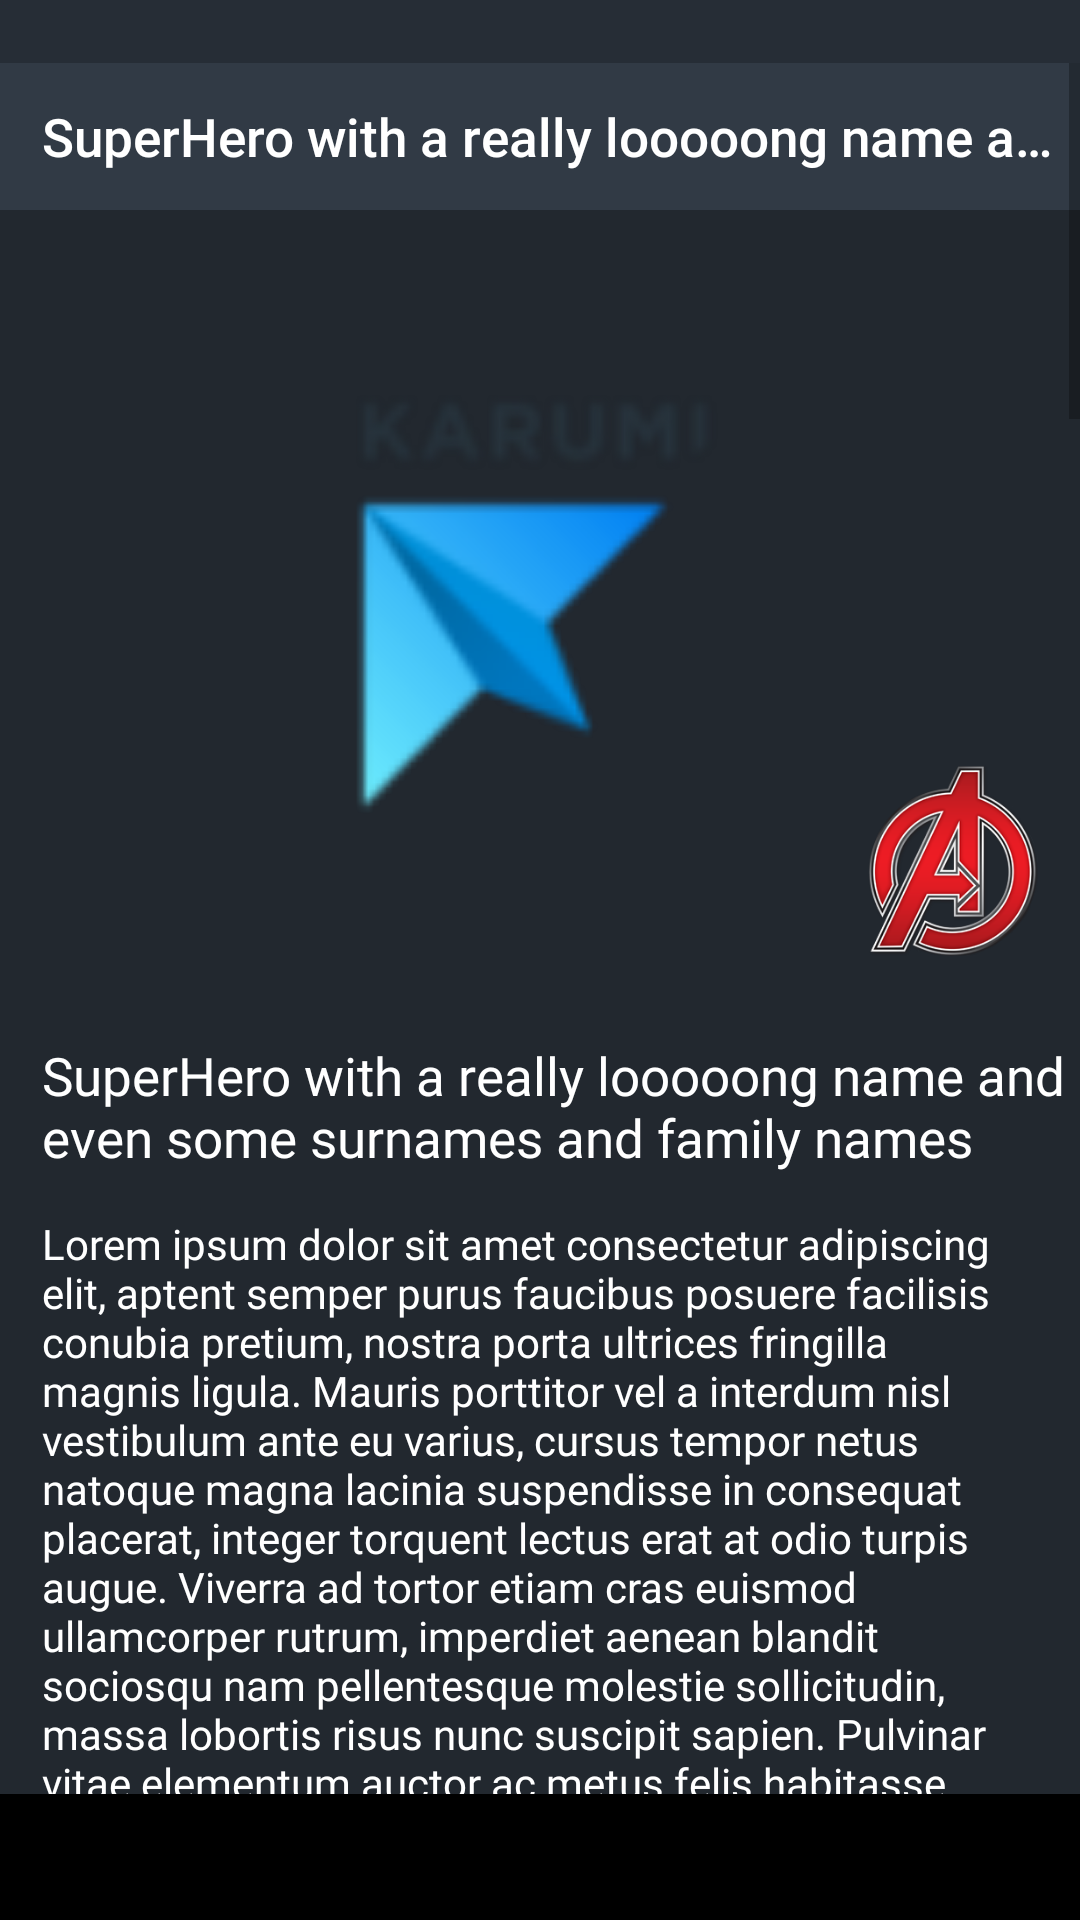
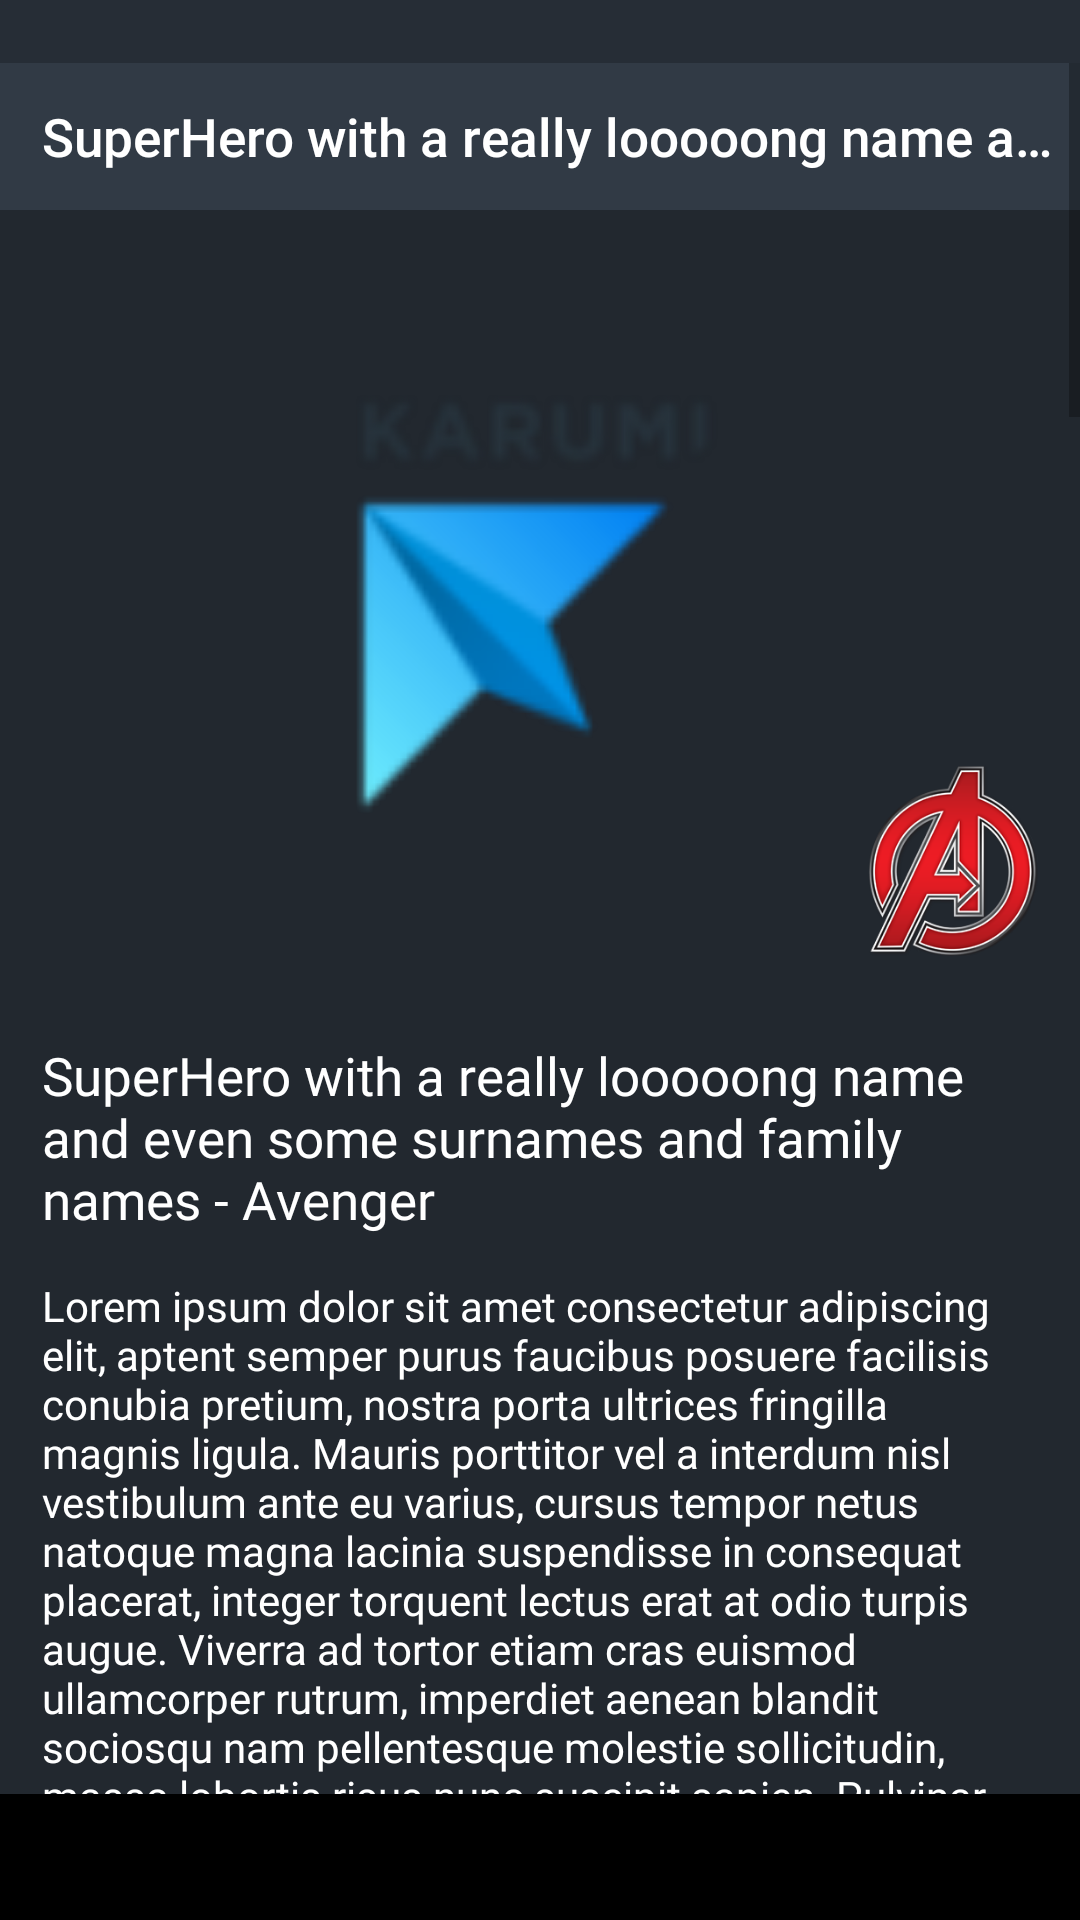
Testing viewholder

Changed region(s): [[0.0306, 0.5625, 0.9167, 0.9375], [0.8861, 0.5312, 0.9778, 0.5938]]

diff --git a/app/src/androidTest/java/com/karumi/screenshot/SuperHeroViewHolderTest.java b/app/src/androidTest/java/com/karumi/screenshot/SuperHeroViewHolderTest.java
@@ -21,6 +21,7 @@ import static android.support.test.InstrumentationRegistry.getInstrumentation;
 import static org.mockito.Mockito.mock;
 
 import android.content.Context;
+import android.support.test.InstrumentationRegistry;
 import android.view.LayoutInflater;
 import android.view.View;
 
@@ -28,15 +29,40 @@ import com.karumi.screenshot.model.SuperHero;
 import com.karumi.screenshot.ui.presenter.SuperHeroesPresenter;
 import com.karumi.screenshot.ui.view.SuperHeroViewHolder;
 
+import org.junit.After;
+import org.junit.Before;
 import org.junit.Test;
 
 public class SuperHeroViewHolderTest extends ScreenshotTest {
 
-  @Test public void showsAnySuperHero() {
+  @Before
+  public void setUp() throws Exception {
+    SuperHeroViewHolder.isRunningUITest = true;
+  }
+
+  @Test public void showsSuperHero() {
     SuperHero superHero = givenASuperHero();
     SuperHeroViewHolder holder = givenASuperHeroViewHolder();
 
-//    holder.render(superHero);
+    holder.render(superHero, InstrumentationRegistry.getTargetContext());
+
+    compareScreenshot(holder, R.dimen.super_hero_row_height);
+  }
+
+  @Test public void showsAvengerSuperHero() {
+    SuperHero superHero = givenASuperHero();
+    SuperHeroViewHolder holder = givenASuperHeroViewHolder();
+
+    holder.render(superHero, InstrumentationRegistry.getTargetContext());
+
+    compareScreenshot(holder, R.dimen.super_hero_row_height);
+  }
+
+  @Test public void showsrSuperHeroLongName() {
+    SuperHero superHero = givenASuperHeroWithALongName();
+    SuperHeroViewHolder holder = givenASuperHeroViewHolder();
+
+    holder.render(superHero, InstrumentationRegistry.getTargetContext());
 
     compareScreenshot(holder, R.dimen.super_hero_row_height);
   }
@@ -85,5 +111,10 @@ public class SuperHeroViewHolderTest extends ScreenshotTest {
   private SuperHero givenASuperHero(String superHeroName, String superHeroDescription,
       boolean isAvenger) {
     return new SuperHero(superHeroName, null, isAvenger, superHeroDescription);
+  }
+
+  @After
+  public void tearDown() throws Exception {
+    SuperHeroViewHolder.isRunningUITest = false;
   }
 }

diff --git a/app/src/androidTest/java/com/karumi/screenshot/SuperHeroDetailActivityTest.java b/app/src/androidTest/java/com/karumi/screenshot/SuperHeroDetailActivityTest.java
@@ -171,14 +171,14 @@ public class SuperHeroDetailActivityTest extends ScreenshotTest {
     compareScreenshot(activity);
   }
 
-  @Test
-  public void showErrorForInternetConnection() {
-    SuperHero superHero = givenInternetConnection();
-
-    Activity activity = startActivity(superHero);
-
-    compareScreenshot(activity);
-  }
+//  @Test
+//  public void showErrorForInternetConnection() {
+//    SuperHero superHero = givenInternetConnection();
+//
+//    Activity activity = startActivity(superHero);
+//
+//    compareScreenshot(activity);
+//  }
 
   private SuperHero givenSuperHeroesWith(String name, String description, boolean avengers) {
     SuperHero superHero = createSuperhero(name, avengers, description);
